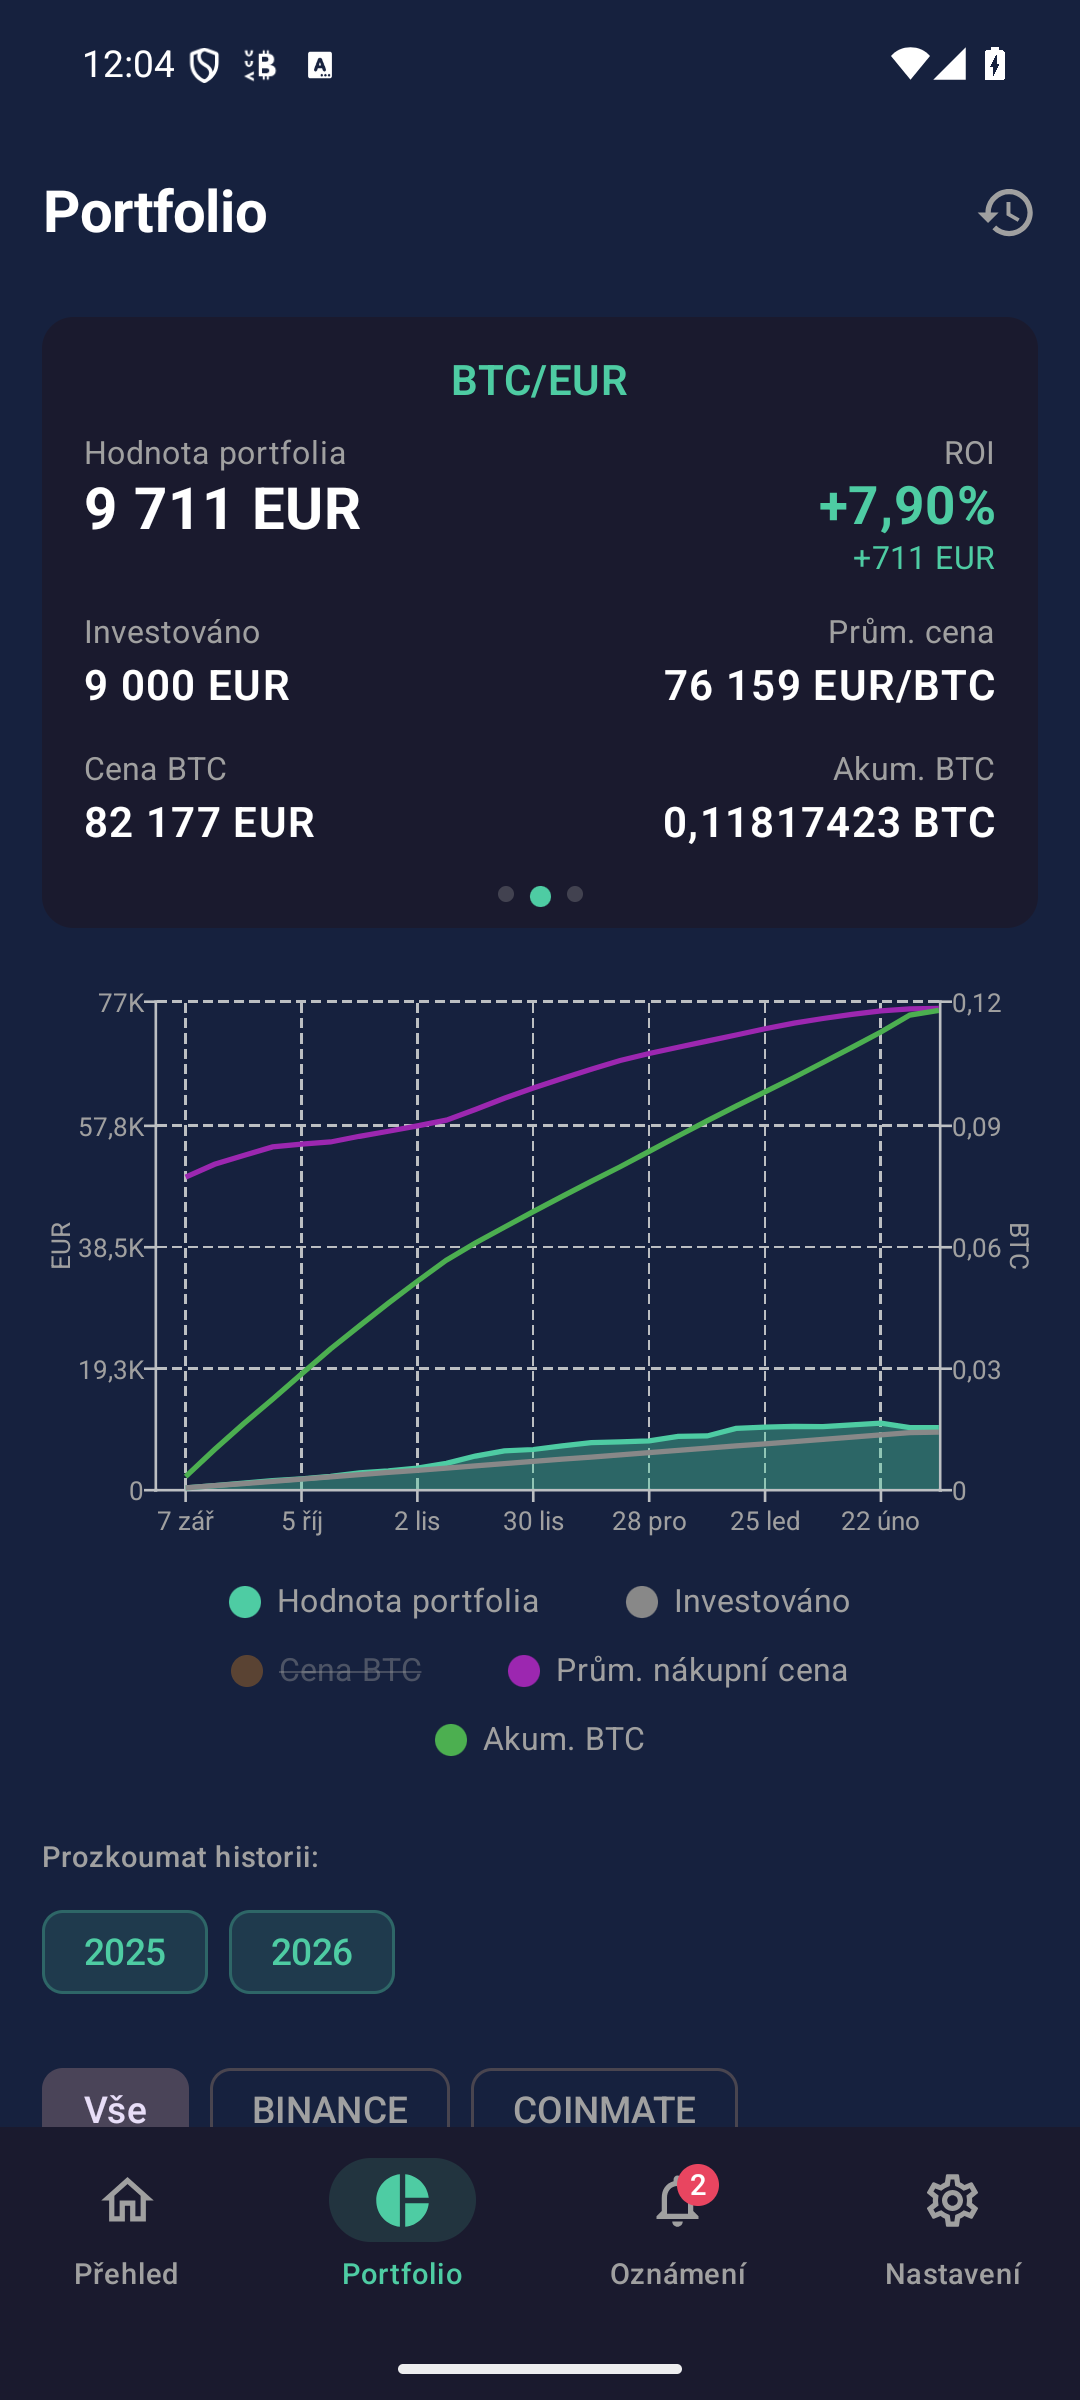
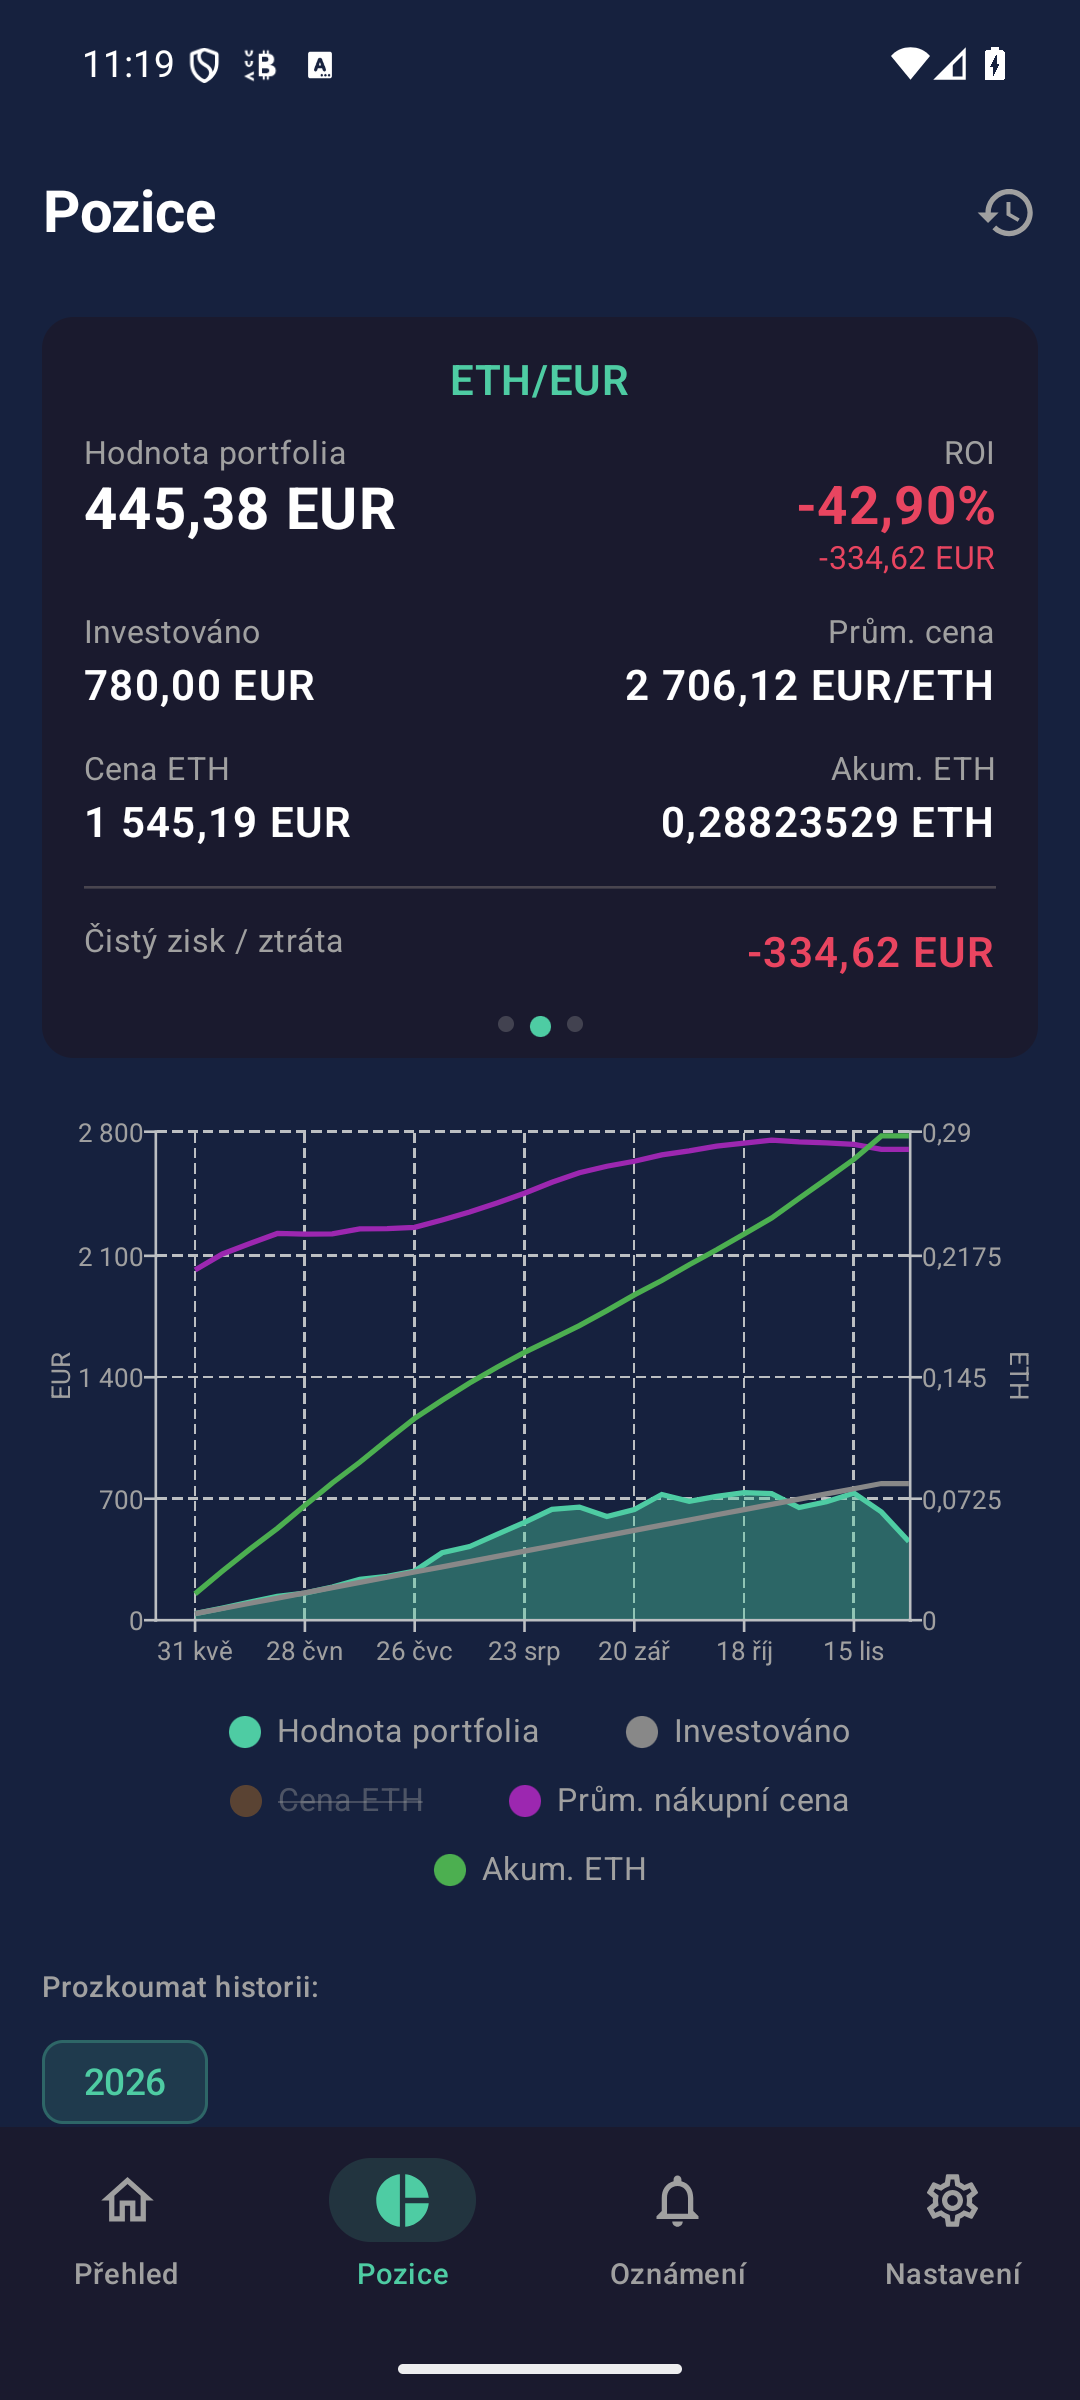
feat(web): real app screenshots, support section, polished translations
- Screenshot gallery and hero image from the Android app (EN/CS sets)
- Support section with BTC QR, other coins, GitHub/Google Play/Telegram/Facebook
- FAQ, "more features" grid, language switcher with 13 languages
- Comparison uses Bitstamp/Binance prices and ECB USD/CZK rates (CryptoCompare now needs a key)
- Translations reviewed and corrected; no em-dashes in copy
- Mobile and narrow desktop layout fixes
- Screenshot test: reuse exchange connections, wait for plan details and history to load

diff --git a/accbot-android/app/src/androidTest/kotlin/com/accbot/dca/screenshots/ScreenshotCaptureTest.kt b/accbot-android/app/src/androidTest/kotlin/com/accbot/dca/screenshots/ScreenshotCaptureTest.kt
@@ -9,6 +9,7 @@ import androidx.compose.ui.test.junit4.createAndroidComposeRule
 import androidx.compose.ui.test.onFirst
 import androidx.compose.ui.test.onLast
 import androidx.compose.ui.test.onNodeWithText
+import androidx.compose.ui.test.onAllNodesWithText
 import androidx.compose.ui.test.onRoot
 import androidx.compose.ui.test.performClick
 import androidx.compose.ui.test.performScrollTo
@@ -170,28 +171,37 @@ class ScreenshotCaptureTest {
         composeRule.waitForIdle()
         Thread.sleep(2000)
 
-        // Navigate KPI pager to BTC/EUR: landscape uses arrow buttons, portrait uses swipe
+        // Navigate the KPI pager until the BTC/EUR page is shown (page order depends on the data).
+        // Landscape layouts have arrow buttons, portrait layouts are swiped.
         val nextLabel = composeRule.activity.getString(R.string.common_next)
-        val nextArrows = composeRule.onAllNodes(hasContentDescription(nextLabel) and hasClickAction())
-        try {
-            nextArrows.onFirst().performClick()
-            composeRule.waitForIdle()
-            Thread.sleep(1000)
-        } catch (e: AssertionError) {
-            composeRule.onRoot().performTouchInput {
-                val cardY = height * 0.18f
-                down(Offset(width * 0.8f, cardY))
-                moveTo(Offset(width * 0.2f, cardY), delayMillis = 300)
-                up()
+        val isLandscape = composeRule.activity.resources.configuration.orientation ==
+            android.content.res.Configuration.ORIENTATION_LANDSCAPE
+        repeat(4) {
+            if (composeRule.onAllNodesWithText("BTC/EUR").fetchSemanticsNodes().isNotEmpty()) return@repeat
+            if (isLandscape) {
+                composeRule.onAllNodes(hasContentDescription(nextLabel) and hasClickAction())
+                    .onFirst().performClick()
+            } else {
+                composeRule.onRoot().performTouchInput {
+                    val cardY = height * 0.18f
+                    down(Offset(width * 0.85f, cardY))
+                    moveTo(Offset(width * 0.15f, cardY), delayMillis = 300)
+                    up()
+                }
             }
             composeRule.waitForIdle()
-            Thread.sleep(2000)
+            Thread.sleep(1500)
         }
         capture("02_portfolio_$locale")
 
         // 3. Portfolio with Avg Buy Price + Accum. BTC enabled
         val avgBuyLabel = composeRule.activity.getString(R.string.chart_avg_buy_price)
-        val accumLabel = composeRule.activity.getString(R.string.chart_accumulated_crypto, "BTC")
+        // The legend names the crypto of the page the pager ended on (BTC or ETH).
+        val accumLabel = listOf("BTC", "ETH")
+            .map { composeRule.activity.getString(R.string.chart_accumulated_crypto, it) }
+            .firstOrNull { label ->
+                composeRule.onAllNodes(hasText(label) and hasClickAction()).fetchSemanticsNodes().isNotEmpty()
+            } ?: composeRule.activity.getString(R.string.chart_accumulated_crypto, "BTC")
         clickLegendChip(avgBuyLabel)
         composeRule.waitForIdle()
         clickLegendChip(accumLabel)
@@ -230,7 +240,12 @@ class ScreenshotCaptureTest {
             composeRule.onNodeWithText("Coinmate").performClick()
         }
         composeRule.waitForIdle()
-        Thread.sleep(3000)
+        // Plan details load asynchronously; wait until the loading placeholder is gone.
+        val loadingPlan = composeRule.activity.getString(R.string.plan_details_loading)
+        composeRule.waitUntil(timeoutMillis = 30000) {
+            composeRule.onAllNodesWithText(loadingPlan).fetchSemanticsNodes().isEmpty()
+        }
+        Thread.sleep(2000)
         capture("06_plan_details_$locale")
 
         // 7. History - back via TopAppBar arrow (device.pressBack exits app on API 36)
@@ -243,7 +258,11 @@ class ScreenshotCaptureTest {
             (hasText(historyText) or hasContentDescription(historyText)) and hasClickAction()
         ).onFirst().performScrollTo().performClick()
         composeRule.waitForIdle()
-        Thread.sleep(500)
+        // History loads its list asynchronously; wait for the first rows instead of capturing a spinner.
+        composeRule.waitUntil(timeoutMillis = 30000) {
+            composeRule.onAllNodesWithText("BTC/EUR").fetchSemanticsNodes().isNotEmpty()
+        }
+        Thread.sleep(1000)
         capture("07_history_$locale")
     }
 
@@ -305,13 +324,14 @@ class ScreenshotCaptureTest {
         db.exchangeBalanceDao().deleteAllBalances()
         db.notificationDao().deleteAllNotifications()
 
-        // Insert default connections first (one per exchange used by the screenshots)
-        val coinmateConnectionId = db.exchangeConnectionDao().insert(
-            ExchangeConnectionEntity(exchange = Exchange.COINMATE, name = "")
-        )
-        val binanceConnectionId = db.exchangeConnectionDao().insert(
-            ExchangeConnectionEntity(exchange = Exchange.BINANCE, name = "")
-        )
+        // Default connections (one per exchange used by the screenshots). Reuse them when a
+        // previous run already created them: (exchange, name) is unique.
+        val connectionDao = db.exchangeConnectionDao()
+        suspend fun defaultConnectionId(exchange: Exchange): Long =
+            connectionDao.getByExchange(exchange).firstOrNull { it.name.isEmpty() }?.id
+                ?: connectionDao.insert(ExchangeConnectionEntity(exchange = exchange, name = ""))
+        val coinmateConnectionId = defaultConnectionId(Exchange.COINMATE)
+        val binanceConnectionId = defaultConnectionId(Exchange.BINANCE)
 
         // Credentials (dummy - app won't call APIs during screenshots).
         creds.saveCredentials(

diff --git a/docs/css/style.css b/docs/css/style.css
@@ -1741,17 +1741,33 @@ section { padding: 96px 0; }
    Support
    ====================== */
 .support-grid {
-  display: grid;
-  grid-template-columns: 1.2fr 1fr;
-  gap: 20px;
-  align-items: start;
-}
-
-.support-side {
   display: flex;
   flex-direction: column;
   gap: 20px;
 }
+
+.support-side {
+  display: grid;
+  grid-template-columns: repeat(4, 1fr);
+  gap: 20px;
+}
+
+.support-side .support-card {
+  display: flex;
+  flex-direction: column;
+}
+
+.support-side .support-card p { flex: 1; }
+.support-side .btn { align-self: flex-start; }
+
+.support-donate {
+  display: grid;
+  grid-template-columns: 1fr 1fr;
+  gap: 20px 40px;
+  align-items: start;
+}
+
+.support-donate > .donate-more summary { margin-top: 4px; }
 
 .support-card {
   background: var(--surface);
@@ -1844,14 +1860,46 @@ section { padding: 96px 0; }
 .copy-mini:hover, .copy-mini.copied { color: var(--accent); border-color: var(--accent); }
 .copy-mini svg { width: 15px; height: 15px; }
 
-@media (max-width: 1080px) {
-  .nav-links { gap: 20px; }
+@media (max-width: 1320px) {
+  .nav-links { gap: 18px; }
 }
 
 @media (max-width: 960px) {
   .more-grid { grid-template-columns: repeat(2, 1fr); }
-  .support-grid { grid-template-columns: 1fr; }
+  .support-side { grid-template-columns: repeat(2, 1fr); }
+  .support-donate { grid-template-columns: 1fr; }
 
+}
+
+@media (max-width: 560px) {
+  .more-grid { grid-template-columns: 1fr; }
+  .support-side { grid-template-columns: 1fr; }
+  .donate-btc { flex-direction: column; align-items: flex-start; }
+  .shot { width: 200px; }
+}
+
+.support-buttons { display: flex; gap: 10px; flex-wrap: wrap; }
+
+.footer-links { flex-wrap: wrap; justify-content: center; row-gap: 8px; }
+
+.exchange-capabilities { overflow-x: auto; }
+
+@media (max-width: 560px) {
+  .exchange-capabilities th,
+  .exchange-capabilities td { padding: 0.5rem 0.35rem; font-size: 0.8125rem; hyphens: auto; }
+}
+
+.compare-inputs > * { min-width: 0; }
+.compare-interval-btn { min-width: 0; overflow-wrap: anywhere; }
+
+@media (max-width: 560px) {
+  .compare-form { padding: 20px; }
+  .compare-interval-btn { padding: 10px 6px; font-size: 0.75rem; }
+}
+
+
+/* Collapse the navigation earlier: 13 languages make the menu labels long */
+@media (max-width: 1180px) {
   .nav-links {
     position: fixed;
     top: var(--header-h);
@@ -1872,11 +1920,3 @@ section { padding: 96px 0; }
   .burger { display: flex; }
   .lang-select-wrap { margin-left: 0; }
 }
-
-@media (max-width: 560px) {
-  .more-grid { grid-template-columns: 1fr; }
-  .donate-btc { flex-direction: column; align-items: flex-start; }
-  .shot { width: 200px; }
-}
-
-.support-buttons { display: flex; gap: 10px; flex-wrap: wrap; }

diff --git a/docs/index.html b/docs/index.html
@@ -23,7 +23,7 @@
   <link href="https://fonts.googleapis.com/css2?family=Inter:wght@400;500;600;700;800&display=swap" rel="stylesheet">
 
   <link rel="icon" type="image/svg+xml" href="favicon.svg">
-  <link rel="stylesheet" href="css/style.css?v=3">
+  <link rel="stylesheet" href="css/style.css?v=8">
 </head>
 <body>
 
@@ -997,6 +997,7 @@
         </div>
         <div class="support-grid">
           <div class="support-card support-donate reveal">
+            <div class="donate-main">
             <h3 data-i18n="support_donate_title">Send a donation</h3>
             <p data-i18n="support_donate_desc">Every sat helps us cover development and testing. Thank you!</p>
             <div class="donate-btc">
@@ -1007,7 +1008,8 @@
                 <button type="button" class="btn btn-primary btn-copy" data-copy="bc1q2hz79m4csklecqgusu9e2yjnrr6e9ca6nhu0at"><svg viewBox="0 0 24 24" fill="none" stroke="currentColor" stroke-width="2" stroke-linecap="round" stroke-linejoin="round" aria-hidden="true"><rect x="9" y="9" width="13" height="13" rx="2"/><path d="M5 15H4a2 2 0 01-2-2V4a2 2 0 012-2h9a2 2 0 012 2v1"/></svg><span data-i18n="support_copy">Copy address</span></button>
               </div>
             </div>
-            <details class="donate-more">
+            </div>
+            <details class="donate-more" open>
               <summary data-i18n="support_other">Other coins</summary>
               <ul class="donate-list">
                 <li>

diff --git a/docs/privacy.html b/docs/privacy.html
@@ -17,7 +17,7 @@
   <link href="https://fonts.googleapis.com/css2?family=Inter:wght@400;500;600;700;800&display=swap" rel="stylesheet">
 
   <link rel="icon" type="image/svg+xml" href="favicon.svg">
-  <link rel="stylesheet" href="css/style.css?v=3">
+  <link rel="stylesheet" href="css/style.css?v=8">
 </head>
 <body data-title-key="privacy_page_title">
 
